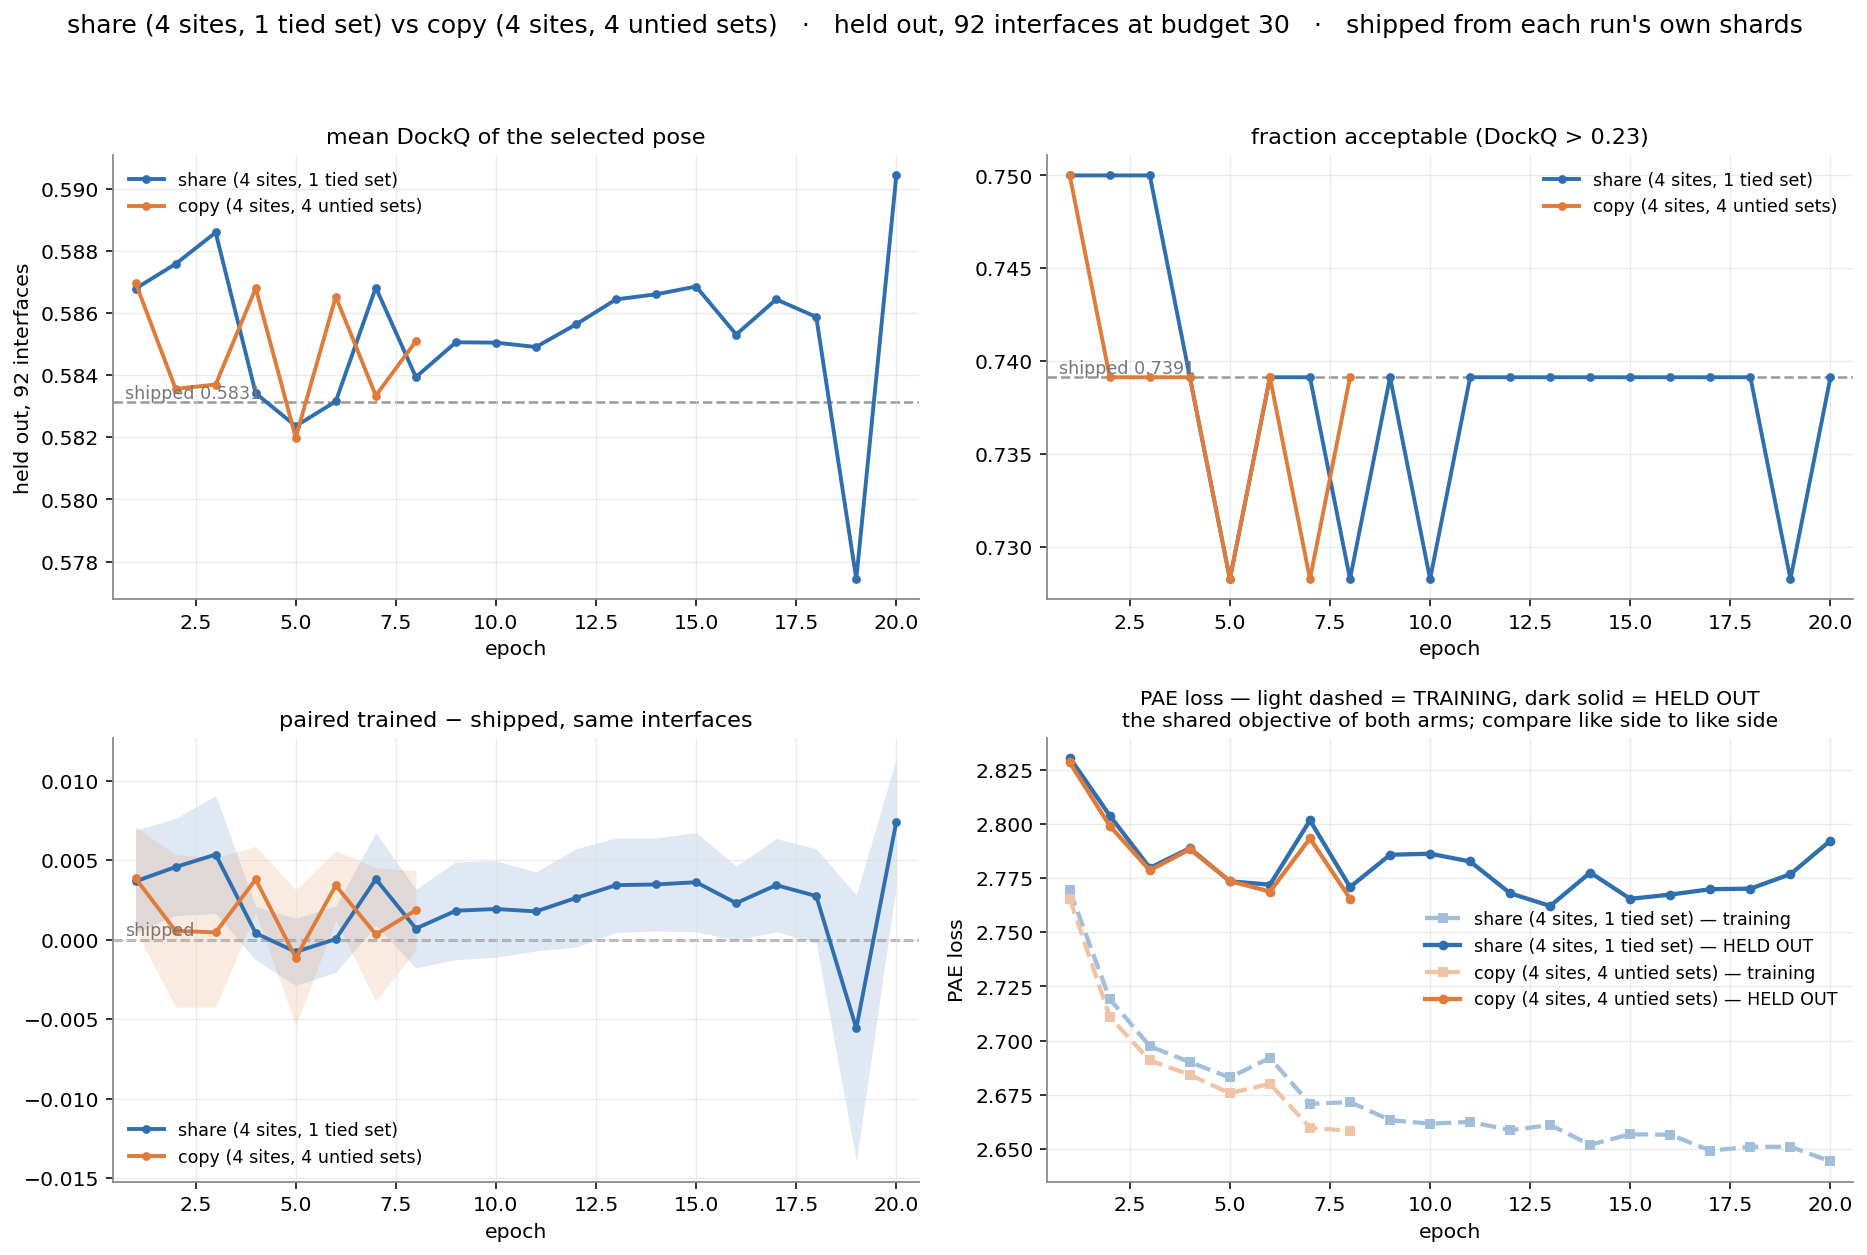
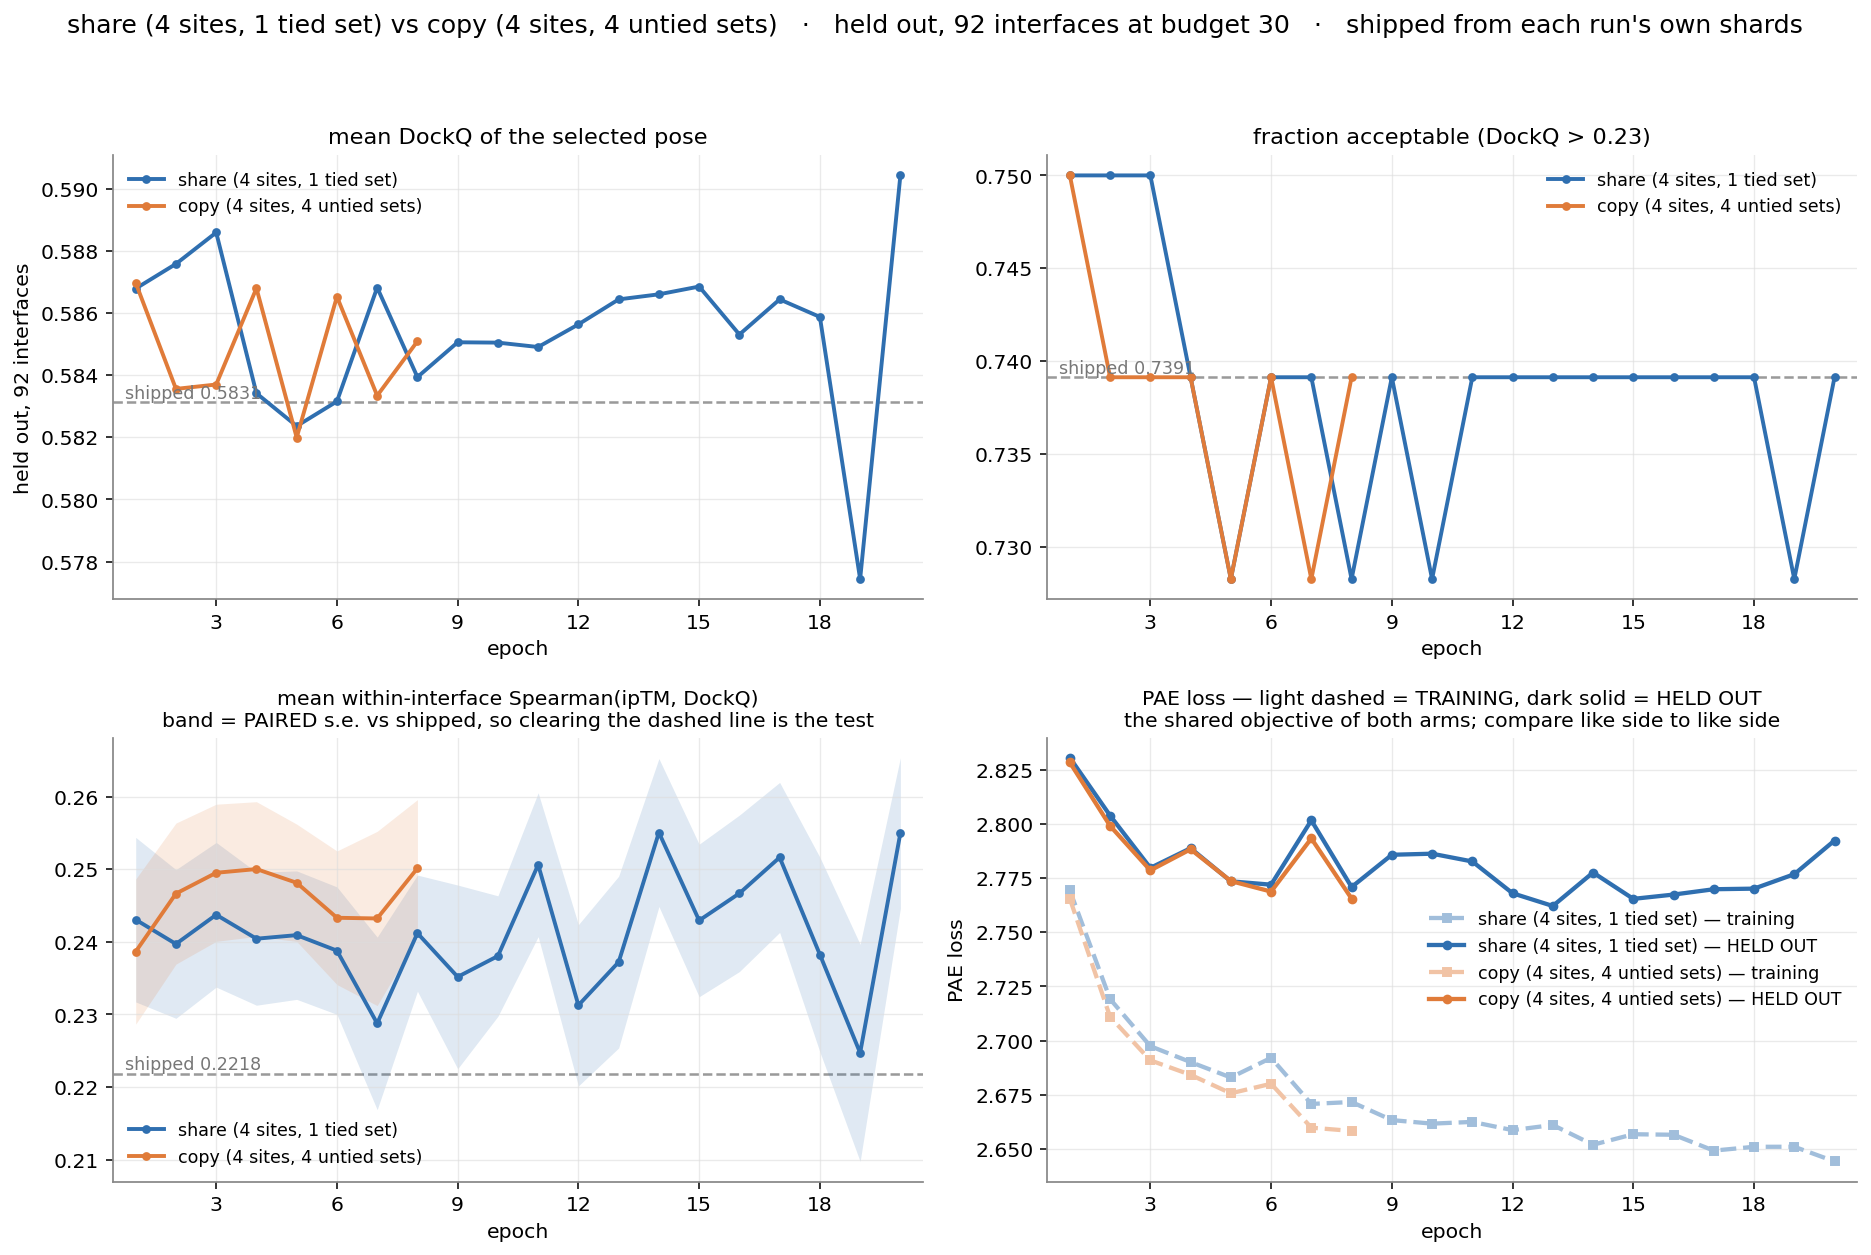
plot_arms: panel 3 is now Spearman(ipTM, DockQ); integer epoch ticks everywhere
PANEL 3 CARRIED NO NUMBER PANEL 1 DID NOT ALREADY SHOW. "paired trained - shipped" is
algebraically the mean DockQ panel minus its shipped line -- mean of differences equals
difference of means on the same 92 interfaces -- and it was verified equal to four decimals on
every one of dntxmn's epochs. All it added was an error bar.

It is replaced by mean WITHIN-INTERFACE Spearman(ipTM, DockQ), rank_rho.py's definition, read
from the cache that module already writes rather than defined a second time here. Within
interface, not pooled over every row: pooled, an easy interface has both high ipTM and high
DockQ, so the statistic would mostly measure which interfaces are easy. It reads the ORDERING
over all ~30 poses instead of the single argmax outcome, which is what selection depends on and
what the argmax cannot resolve -- shipped 0.2218, both arms clearly and durably above it where
the paired DockQ bounced around zero.

THE BAND IS THE PAIRED s.e., NOT THE CACHED rho_sem. rho_sem is the spread ACROSS interfaces
(~0.0353 on valfull), larger than the whole gap to shipped, because interfaces differ hugely in
how well any score tracks DockQ; as a band it says "interfaces differ", which is not the
question. rho_paired() correlates both columns against DockQ on the same interface's same poses
and takes the s.e. of the difference (~0.010), which resolves the gap the unpaired one buries.
Drawing the unpaired band under this claim would have been the same error that got the old panel
[…]

diff --git a/extra_training/run_logging/plot_arms.py b/extra_training/run_logging/plot_arms.py
@@ -42,6 +42,7 @@ from collections import defaultdict
 import matplotlib
 matplotlib.use("Agg")
 import matplotlib.pyplot as plt
+from matplotlib.ticker import MaxNLocator
 
 # TWO HELD-OUT LOSS COLUMNS, AND THEY ANSWER DIFFERENT QUESTIONS.
 #   xsloss_*   each run's OWN objective, so it is the twin of that run's training curve. The gap
@@ -262,6 +263,89 @@ def _chain(rid):
     return plot_three.run_chain(rid)
 
 
+def rho_paired(rid, budget):
+    """epoch -> (paired_mean_drho, paired_sem) -- per-interface Spearman(trained) minus
+    Spearman(shipped), averaged over interfaces.
+
+    WHY THIS AND NOT THE CACHED rho_sem. rho_sem is the spread ACROSS interfaces: on the valfull
+    pool it is ~0.0353, larger than the entire gap to shipped, because interfaces differ hugely in
+    how well ANY score tracks DockQ. Drawn as the band under the rho curve it says "interfaces
+    differ", which is true and is not the question. The question is whether THIS head orders
+    better than the shipped one, and that is a paired quantity: both rhos come from the same
+    interface's same ~30 poses, differing only in which column was correlated against DockQ. The
+    paired s.e. is ~0.010, so it resolves a gap the unpaired one buries.
+
+    This is exactly the error that got the paired-DockQ panel deleted, one level down: an error
+    bar that does not match the claim beside it. Computed from the shards rather than cached
+    because rank_rho.py stores no paired column; ~2 s for 20 epochs, and only manual runs of this
+    plotter pay it -- the per-epoch watcher calls plot_three.
+    """
+    from scipy.stats import spearmanr
+    out = {}
+    eps = {}
+    for r in _chain(rid):
+        for d in glob.glob(f"training/runs/{r}/train_eval_shards_ep*"):
+            eps[int(os.path.basename(d).split("ep")[-1])] = r
+    for ep in sorted(eps):
+        rows = epoch_rows(eps[ep], ep, budget)
+        if not rows:
+            continue
+        by = defaultdict(list)
+        for r in rows:
+            by[r["iface"]].append((float(r["iptm"]), float(r["stored_iptm"]), float(r["dockq"])))
+        d = []
+        for ps in by.values():
+            # Spearman is undefined on fewer than 3 points and nan when either side is constant;
+            # such an interface is DROPPED, not counted as zero, which would pull the mean toward
+            # "no difference" using interfaces that carry no information either way.
+            if len(ps) < 3:
+                continue
+            dq = [x[2] for x in ps]
+            t = spearmanr([x[0] for x in ps], dq).statistic
+            s = spearmanr([x[1] for x in ps], dq).statistic
+            if t == t and s == s:
+                d.append(t - s)
+        if len(d) < 2:
+            continue
+        m = sum(d) / len(d)
+        out[ep] = (m, st.stdev(d) / math.sqrt(len(d)))
+    return out
+
+
+def rho_curve(rid, budget):
+    """epoch -> (rho_trained, rho_sem, rho_shipped), from each chain member's rank_rho cache.
+
+    MEAN WITHIN-INTERFACE Spearman(ipTM, DockQ), which is rank_rho.py's definition and the only
+    one used anywhere in this repo -- NOT a correlation pooled over every row. Pooled, the
+    statistic is dominated by between-interface variation: an easy interface has both high ipTM
+    and high DockQ, so the pooled number would mostly measure which interfaces are easy and would
+    move when the pool changed rather than when the head did. That is the same error the paired
+    DockQ panel existed to avoid, one level down.
+
+    WHY IT REPLACES THE PAIRED PANEL. The paired mean is algebraically identical to panel 1 minus
+    its shipped line -- verified equal to four decimals on every epoch of dntxmn -- so panel 3
+    carried no number panel 1 did not already show, only an error bar. rho reads the ORDERING
+    over all ~30 poses per interface instead of the single argmax outcome, which is what selection
+    actually depends on and what the argmax cannot resolve.
+
+    rho_sem is the s.e. ACROSS the per-interface rhos, computed by rank_rho.py from the same rows.
+    """
+    out = {}
+    for r in _chain(rid):
+        path, ver = _cache_path(r, budget)
+        if not path:
+            continue
+        with open(path) as fh:
+            for row in csv.DictReader(fh):
+                try:
+                    out[int(row["epoch"])] = (float(row["rho_trained"]),
+                                              float(row["rho_sem"]),
+                                              float(row["rho_shipped"]))
+                except (KeyError, ValueError, TypeError):
+                    continue
+    return out
+
+
 def series(rid, budget, thresh):
     """epoch -> (paired_mean, paired_sem, dockq, frac, shipped_dockq, shipped_frac, ifaces).
 
@@ -328,6 +412,24 @@ def main():
     sh_f = next(iter(first.values()))[5]
     n_if = len(base)
 
+    # rho COMES FROM THE CACHE, so an arm whose cache has not been written yet draws no curve
+    # here rather than a wrong one. Named, because a silently absent curve reads as a flat arm.
+    rho = {}
+    for spec in a.arms:
+        rid = spec.partition("=")[0]
+        rho[rid] = rho_curve(rid, a.budget)
+        if not rho[rid]:
+            print(f"NOTE: no rank_rho_b{a.budget}_v*.csv for {rid}; its rho curve is omitted")
+    rhop = {spec.partition("=")[0]: rho_paired(spec.partition("=")[0], a.budget)
+            for spec in a.arms}
+    # THE SHIPPED rho MUST AGREE between arms, for the same reason the interface sets must: it is
+    # derived from each run's own stored_iptm rows, so a mismatch means the pools differ in a way
+    # the interface-set check did not catch, and one dashed line cannot stand for both.
+    _sh = {rid: next(iter(v.values()))[2] for rid, v in rho.items() if v}
+    if len(set(round(v, 6) for v in _sh.values())) > 1:
+        raise SystemExit(f"STOP: shipped rho differs between arms: {_sh}; these are not the "
+                         f"same pool and one baseline cannot be drawn for both")
+
     objs = {spec.partition('=')[0]: objective(spec.partition('=')[0]) for spec in a.arms}
     same_obj = len({o for o in objs.values() if o is not None}) <= 1
     # EVERY arm, not any: one PAE arm beside one ranking arm has no shared loss to draw, and the
@@ -354,11 +456,17 @@ def main():
                      label=labels[rid])
         axes[1].plot(ep, [s[e][3] for e in ep], color=c, lw=2, marker="o", ms=3.5,
                      label=labels[rid])
-        m = [s[e][0] for e in ep]
-        se = [s[e][1] for e in ep]
-        axes[2].fill_between(ep, [x - y for x, y in zip(m, se)], [x + y for x, y in zip(m, se)],
-                             color=c, alpha=0.15, lw=0)
-        axes[2].plot(ep, m, color=c, lw=2, marker="o", ms=3.5, label=labels[rid])
+        rc, rp = rho[rid], rhop[rid]
+        rep = sorted(rc)
+        if rep:
+            m = [rc[e][0] for e in rep]
+            # THE BAND IS THE PAIRED s.e., not the across-interface rho_sem -- see rho_paired().
+            # Centred on the trained curve because shipped is a fixed constant here, so
+            # "does the band clear the dashed line" is then the right question to ask of it.
+            se = [rp[e][1] if e in rp else 0.0 for e in rep]
+            axes[2].fill_between(rep, [x - y for x, y in zip(m, se)],
+                                 [x + y for x, y in zip(m, se)], color=c, alpha=0.15, lw=0)
+            axes[2].plot(rep, m, color=c, lw=2, marker="o", ms=3.5, label=labels[rid])
         if pae_mode:
             _pe, _ptr, _pvl = pae_loss(rid)
             tl = dict(zip(_pe, _ptr))
@@ -386,10 +494,15 @@ def main():
         ax.annotate(f"shipped {ref:.4f}", xy=(0.015, ref), xycoords=("axes fraction", "data"),
                     color="#777777", fontsize=9, va="bottom")
         ax.set_title(ttl)
-    axes[2].axhline(0.0, color=SHIPPED_C, ls="--", lw=1.3, zorder=0)
-    axes[2].annotate("shipped", xy=(0.015, 0.0), xycoords=("axes fraction", "data"),
-                     color="#777777", fontsize=9, va="bottom")
-    axes[2].set_title("paired trained \u2212 shipped, same interfaces")
+    _rho_sh = next(iter(_sh.values())) if _sh else None
+    if _rho_sh is not None:
+        axes[2].axhline(_rho_sh, color=SHIPPED_C, ls="--", lw=1.3, zorder=0)
+        axes[2].annotate(f"shipped {_rho_sh:.4f}", xy=(0.015, _rho_sh),
+                         xycoords=("axes fraction", "data"), color="#777777", fontsize=9,
+                         va="bottom")
+    axes[2].set_title("mean within-interface Spearman(ipTM, DockQ)\n"
+                      "band = PAIRED s.e. vs shipped, so clearing the dashed line is the test",
+                      fontsize=10.5)
     _shipped_xs = None
     for spec in ([] if pae_mode else a.arms):
         _x = xsloss(spec.partition("=")[0], a.budget, shipped=True,
@@ -431,6 +544,9 @@ def main():
     multi = len(a.arms) > 1
     for ax in axes[:4]:
         ax.set_xlabel("epoch")
+        # EPOCHS ARE INTEGERS. The default locator put ticks at 2.5, 5.0, 7.5 on a 1-8 range,
+        # labelling an axis whose values can only be whole numbers with halves that name no epoch.
+        ax.xaxis.set_major_locator(MaxNLocator(integer=True, nbins="auto"))
         ax.grid(alpha=0.6, lw=0.7)
         ax.margins(x=0.03)
         if multi or ax is axes[3]:

diff --git a/extra_training/run_logging/plot_three.py b/extra_training/run_logging/plot_three.py
@@ -22,6 +22,7 @@ import sys
 import matplotlib
 matplotlib.use("Agg")
 import matplotlib.pyplot as plt
+from matplotlib.ticker import MaxNLocator
 
 sys.path.insert(0, os.path.dirname(os.path.abspath(__file__)))
 import metrics_io as MIO
@@ -404,6 +405,9 @@ def main():
                     fontsize=9, va="bottom", ha="right")
         ax.set_title(title, fontsize=11.5)
         ax.set_xlabel("epoch", fontsize=10.5)
+        # EPOCHS ARE INTEGERS. The default locator labelled a 1-8 range at 2.5/5.0/7.5, naming
+        # epochs that do not exist.
+        ax.xaxis.set_major_locator(MaxNLocator(integer=True, nbins="auto"))
         ax.grid(alpha=0.15)
     axes[0].set_ylabel(f"held out, {n_if} interfaces, +- s.e. across interfaces", fontsize=10)
 
@@ -425,6 +429,7 @@ def main():
         axr.set_title("rank of first acceptable pose (lower better)",
                       fontsize=10.5)
         axr.set_xlabel("epoch", fontsize=10.5)
+        axr.xaxis.set_major_locator(MaxNLocator(integer=True, nbins="auto"))
         axr.grid(alpha=0.15)
         # The unpaired s.e. is ~13 on a mean of ~37, so the paired delta is the number that can
         # actually resolve a change; it is annotated here rather than given a panel of its own.
@@ -511,6 +516,7 @@ def main():
                     fontsize=8, va="bottom", ha="left")
         ax.set_title(f"{_lbl}: training vs held out", fontsize=11.5)
     ax.set_xlabel("epoch", fontsize=10.5)
+    ax.xaxis.set_major_locator(MaxNLocator(integer=True, nbins="auto"))
     ax.set_ylabel(f"{_lbl} (lower is better)", fontsize=9.5)
     ax.legend(fontsize=8.5, loc="upper right", framealpha=0.9)
     ax.grid(alpha=0.15)
